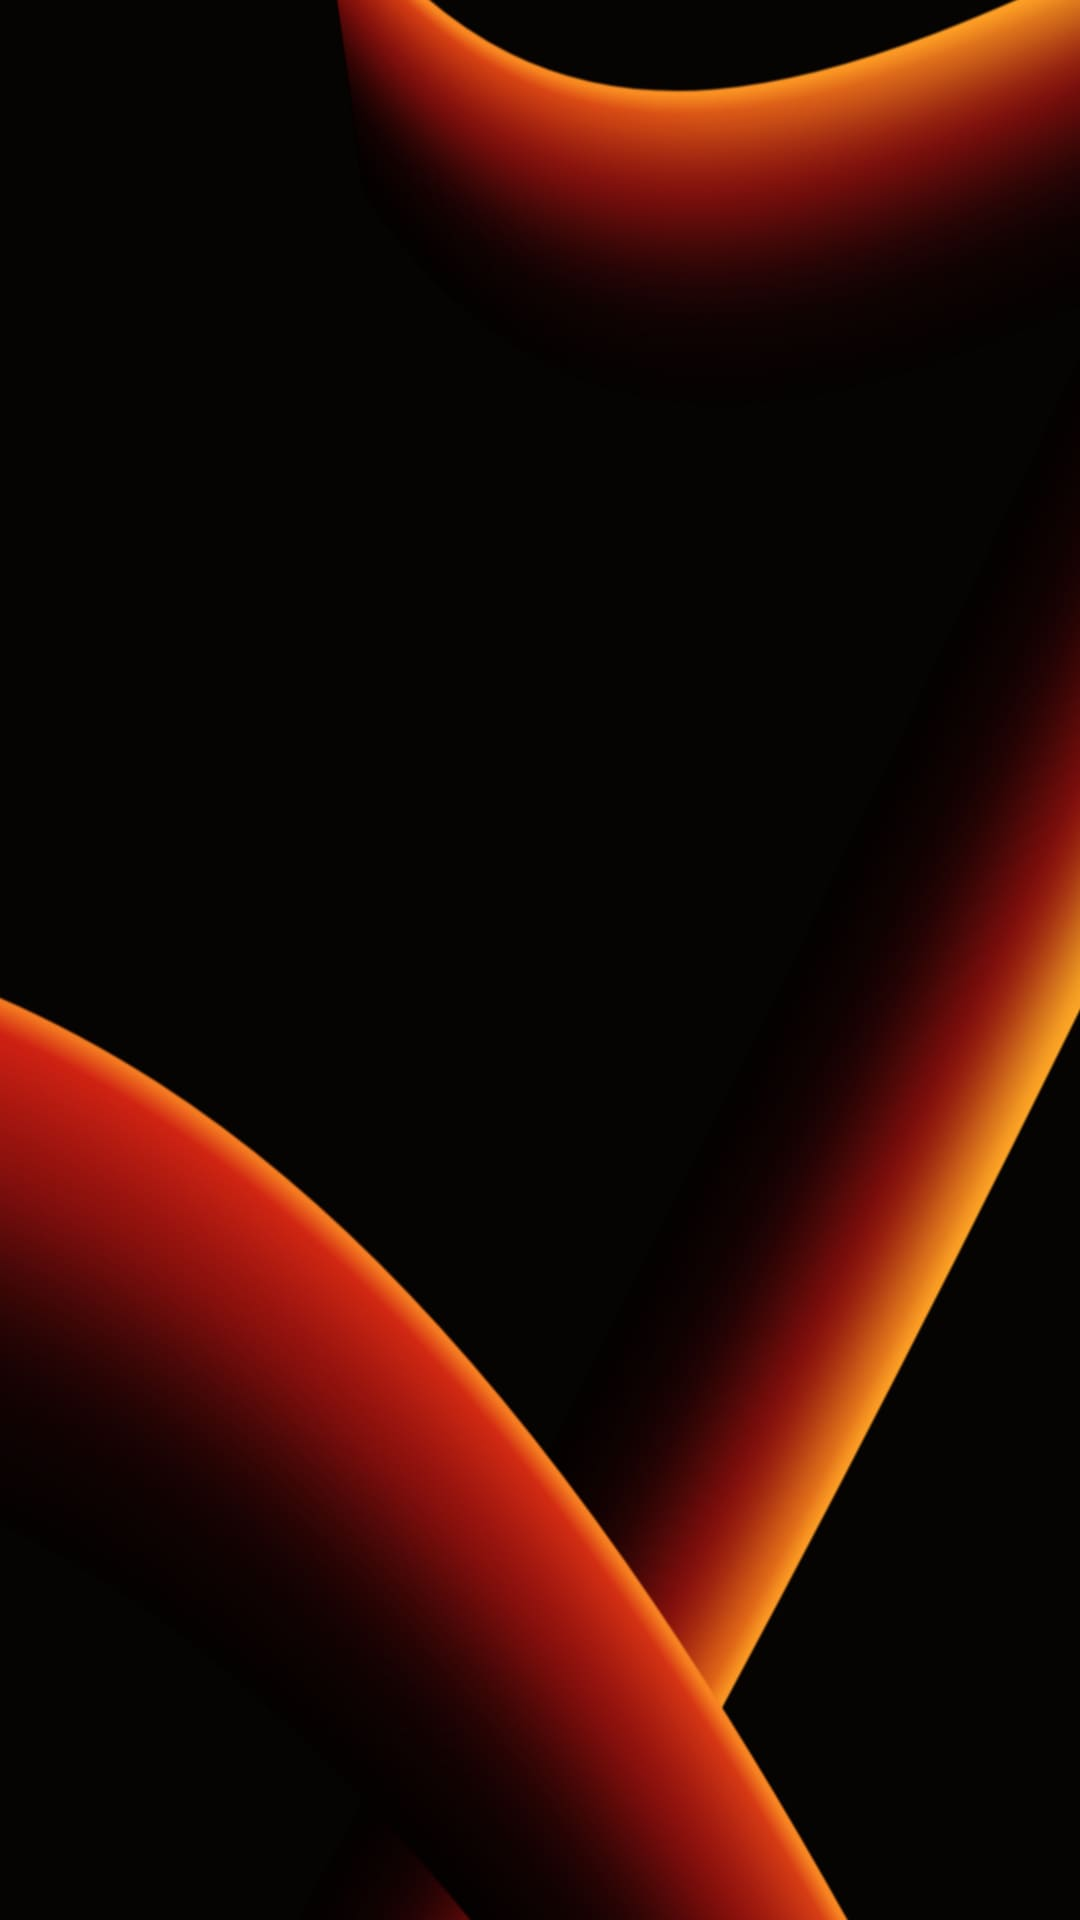
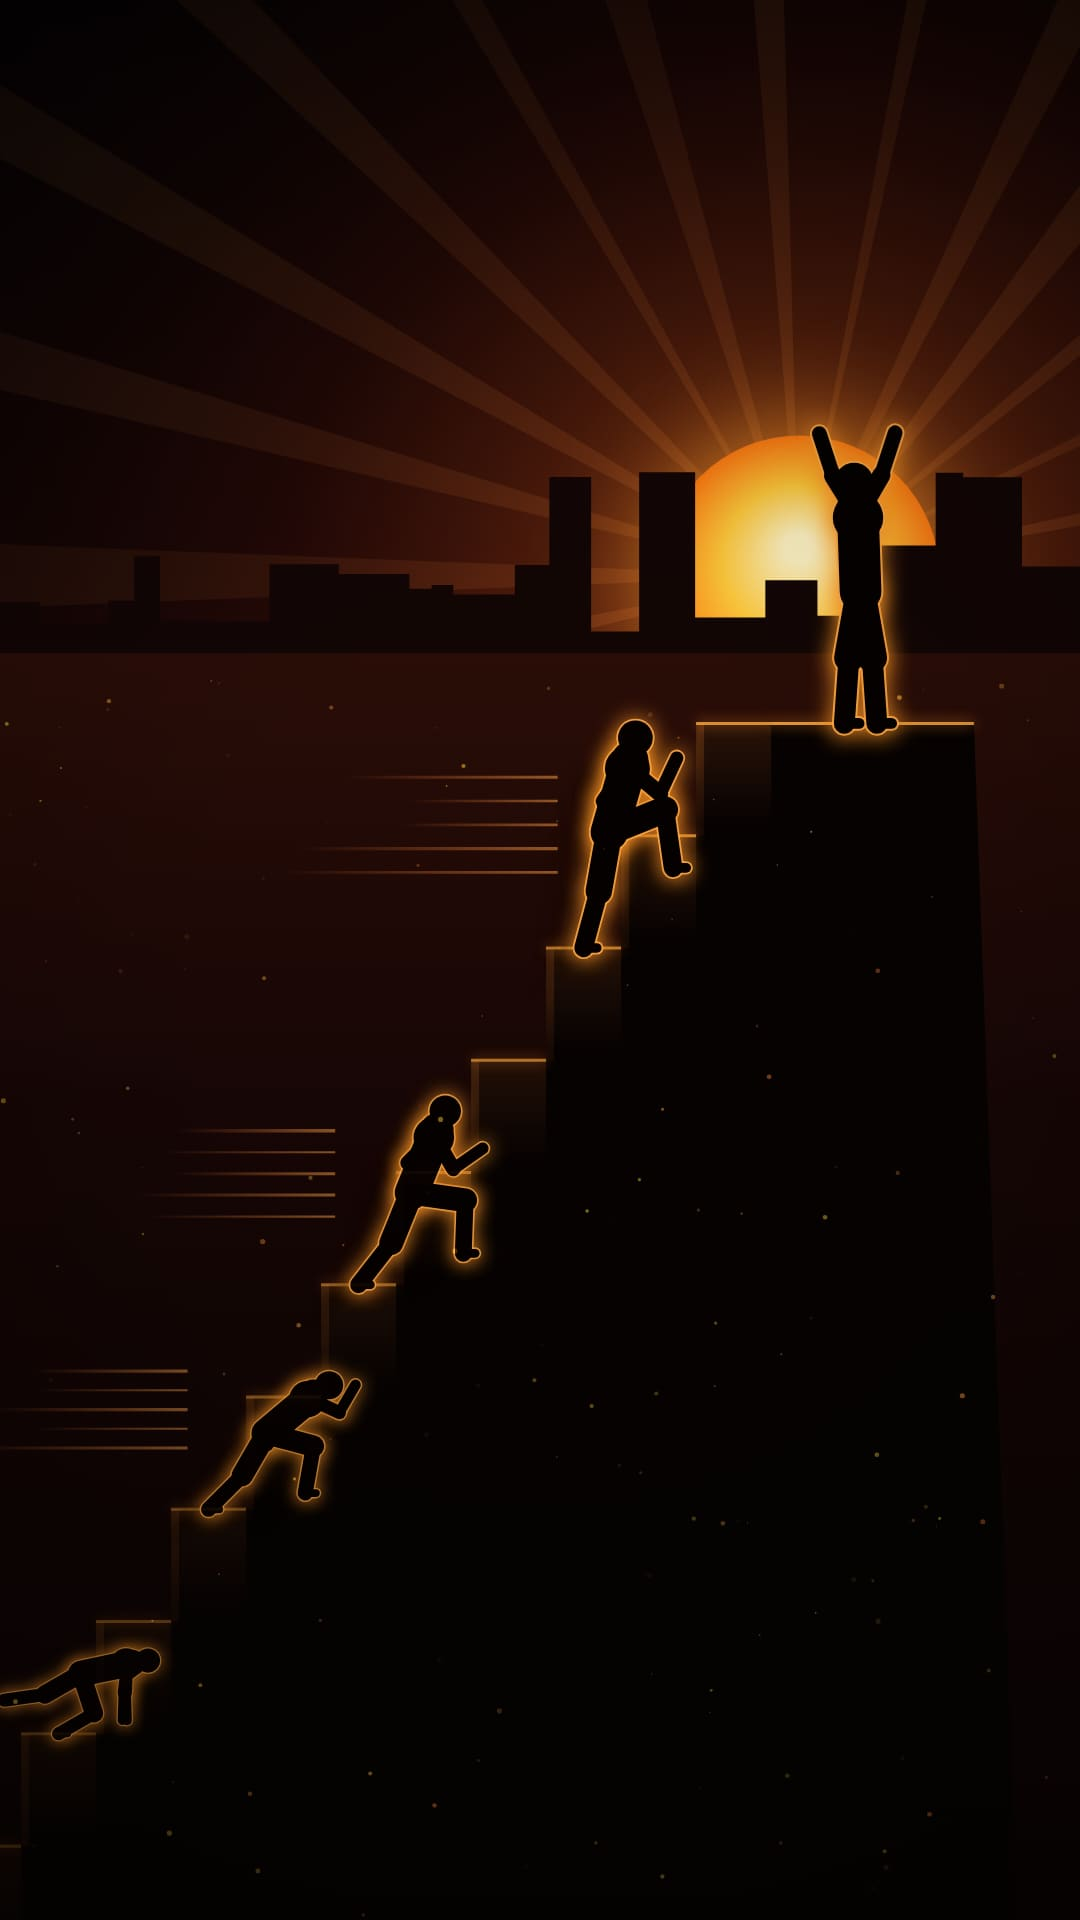
Redesign: sunrise staircase background telling the climb from start to victory; Barlow Condensed sport type
Claude-Session: https://claude.ai/code/session_015HK9XfXWS6XuzpB8tKHbMa

diff --git a/web/app.css b/web/app.css
@@ -5,7 +5,7 @@
 :root{
   color-scheme:dark;
   --night:#060303;
-  --panel:rgba(17,8,7,.82);
+  --panel:rgba(14,6,5,.86);
   --panel-solid:#140A08;
   --lift:rgba(255,226,200,.07);
   --line:rgba(255,196,150,.20);
@@ -23,8 +23,8 @@
   --glow-sm:0 0 12px rgba(255,150,40,.38);
   --tglow:0 0 14px rgba(255,150,40,.62),0 0 2px rgba(255,210,140,.45);
   --tsoft:0 0 12px rgba(255,140,40,.22);
-  --display:'Source Serif 4',Georgia,'Times New Roman',serif;
-  --body:'Instrument Sans',system-ui,-apple-system,'Segoe UI',sans-serif;
+  --display:'Barlow Condensed','Arial Narrow',system-ui,sans-serif;
+  --body:'Barlow',system-ui,-apple-system,'Segoe UI',sans-serif;
   --tab-h:66px;
 }
 *{box-sizing:border-box}
@@ -33,7 +33,7 @@ img{max-width:100%}
 [hidden]{display:none!important}
 body{background:var(--night);color:var(--ivory);font:16px/1.55 var(--body);text-shadow:var(--tsoft);-webkit-tap-highlight-color:transparent}
 h1,h2,h3,p,ul,ol{margin:0}ul,ol{padding:0;list-style:none}
-h1,h2{font-family:var(--display);letter-spacing:-.02em;text-wrap:balance;font-weight:700;line-height:1.08;text-shadow:0 0 20px rgba(255,150,40,.42),0 2px 18px rgba(0,0,0,.65)}
+h1,h2{font-family:var(--display);letter-spacing:.005em;text-transform:uppercase;text-wrap:balance;font-weight:800;line-height:.98;text-shadow:0 0 20px rgba(255,150,40,.42),0 2px 18px rgba(0,0,0,.65)}
 h1{font-size:clamp(34px,5.6vw,60px)}
 h2{font-size:clamp(26px,3.2vw,34px)}
 h3{font-size:18px;font-weight:600;line-height:1.3}
@@ -54,7 +54,7 @@ a{color:var(--ivory)}
 /* ---- top bar */
 .top{position:sticky;top:env(safe-area-inset-top,0px);z-index:6;background:rgba(8,4,4,.72);-webkit-backdrop-filter:blur(18px) saturate(1.3);backdrop-filter:blur(18px) saturate(1.3);border-bottom:1px solid var(--line)}
 .bar{display:flex;align-items:center;gap:10px 14px;max-width:1220px;margin:0 auto;padding:10px 16px}
-.mark{font-family:var(--display);font-size:30px;font-weight:800;letter-spacing:-.03em;text-decoration:none;line-height:1;margin-right:auto;text-shadow:0 0 18px rgba(255,150,40,.5)}
+.mark{font-family:var(--display);font-size:32px;font-weight:800;font-style:italic;text-transform:uppercase;letter-spacing:.01em;text-decoration:none;line-height:1;margin-right:auto;text-shadow:0 0 18px rgba(255,150,40,.5)}
 .chip{display:flex;align-items:center;gap:10px;min-height:44px;padding:0 6px;text-decoration:none;font-weight:600;min-width:0}
 .chip .who{white-space:nowrap;overflow:hidden;text-overflow:ellipsis;max-width:26vw;color:var(--muted)}
 .chip .dot{width:36px;height:36px;flex:none;border-radius:50%;display:grid;place-items:center;font:700 14px var(--body);color:var(--ink);background:linear-gradient(135deg,var(--gold),var(--flame));box-shadow:var(--glow-sm);text-shadow:none}
@@ -279,3 +279,12 @@ main.enter>*:nth-child(n+4){animation-delay:.15s}
 .board li.top .pl{color:var(--gold);text-shadow:var(--tglow)}
 .board li.mine{background:rgba(255,170,40,.14)}
 .bigtime{font:700 clamp(30px,8vw,42px)/1.1 var(--display);color:var(--gold);text-shadow:var(--tglow)}
+
+/* ---------------------------------------------------------------- sport type: condensed, upright for headings, slanted for the gold words */
+h1{font-size:clamp(40px,9vw,68px)}
+h2{font-size:clamp(30px,7vw,46px)}
+h3{font-family:var(--display);font-weight:700;font-size:22px;letter-spacing:.01em;text-transform:uppercase}
+h1 i,h2 i,.mark i{font-weight:800;padding-right:.06em}
+.eyebrow{font-family:var(--display);font-weight:700;letter-spacing:.14em;text-transform:uppercase}
+.btn{font-weight:700;letter-spacing:.02em}
+.stat .num,.bigcount,.bigtime,.sess .when b,.board li strong{font-style:italic;font-weight:800}

diff --git a/web/index.html b/web/index.html
@@ -9,7 +9,7 @@
 <link rel="icon" href="icon.svg" type="image/svg+xml">
 <link rel="preconnect" href="https://fonts.googleapis.com">
 <link rel="preconnect" href="https://fonts.gstatic.com" crossorigin>
-<link rel="stylesheet" href="https://fonts.googleapis.com/css2?family=Source+Serif+4:ital,opsz,wght@0,8..60,400..900;1,8..60,400..900&family=Instrument+Sans:wght@400;500;600&display=swap">
+<link rel="stylesheet" href="https://fonts.googleapis.com/css2?family=Barlow+Condensed:ital,wght@0,600;0,700;0,800;1,700;1,800&family=Barlow:wght@400;500;600;700&display=swap">
 <link rel="stylesheet" href="app.css">
 </head>
 <body>
